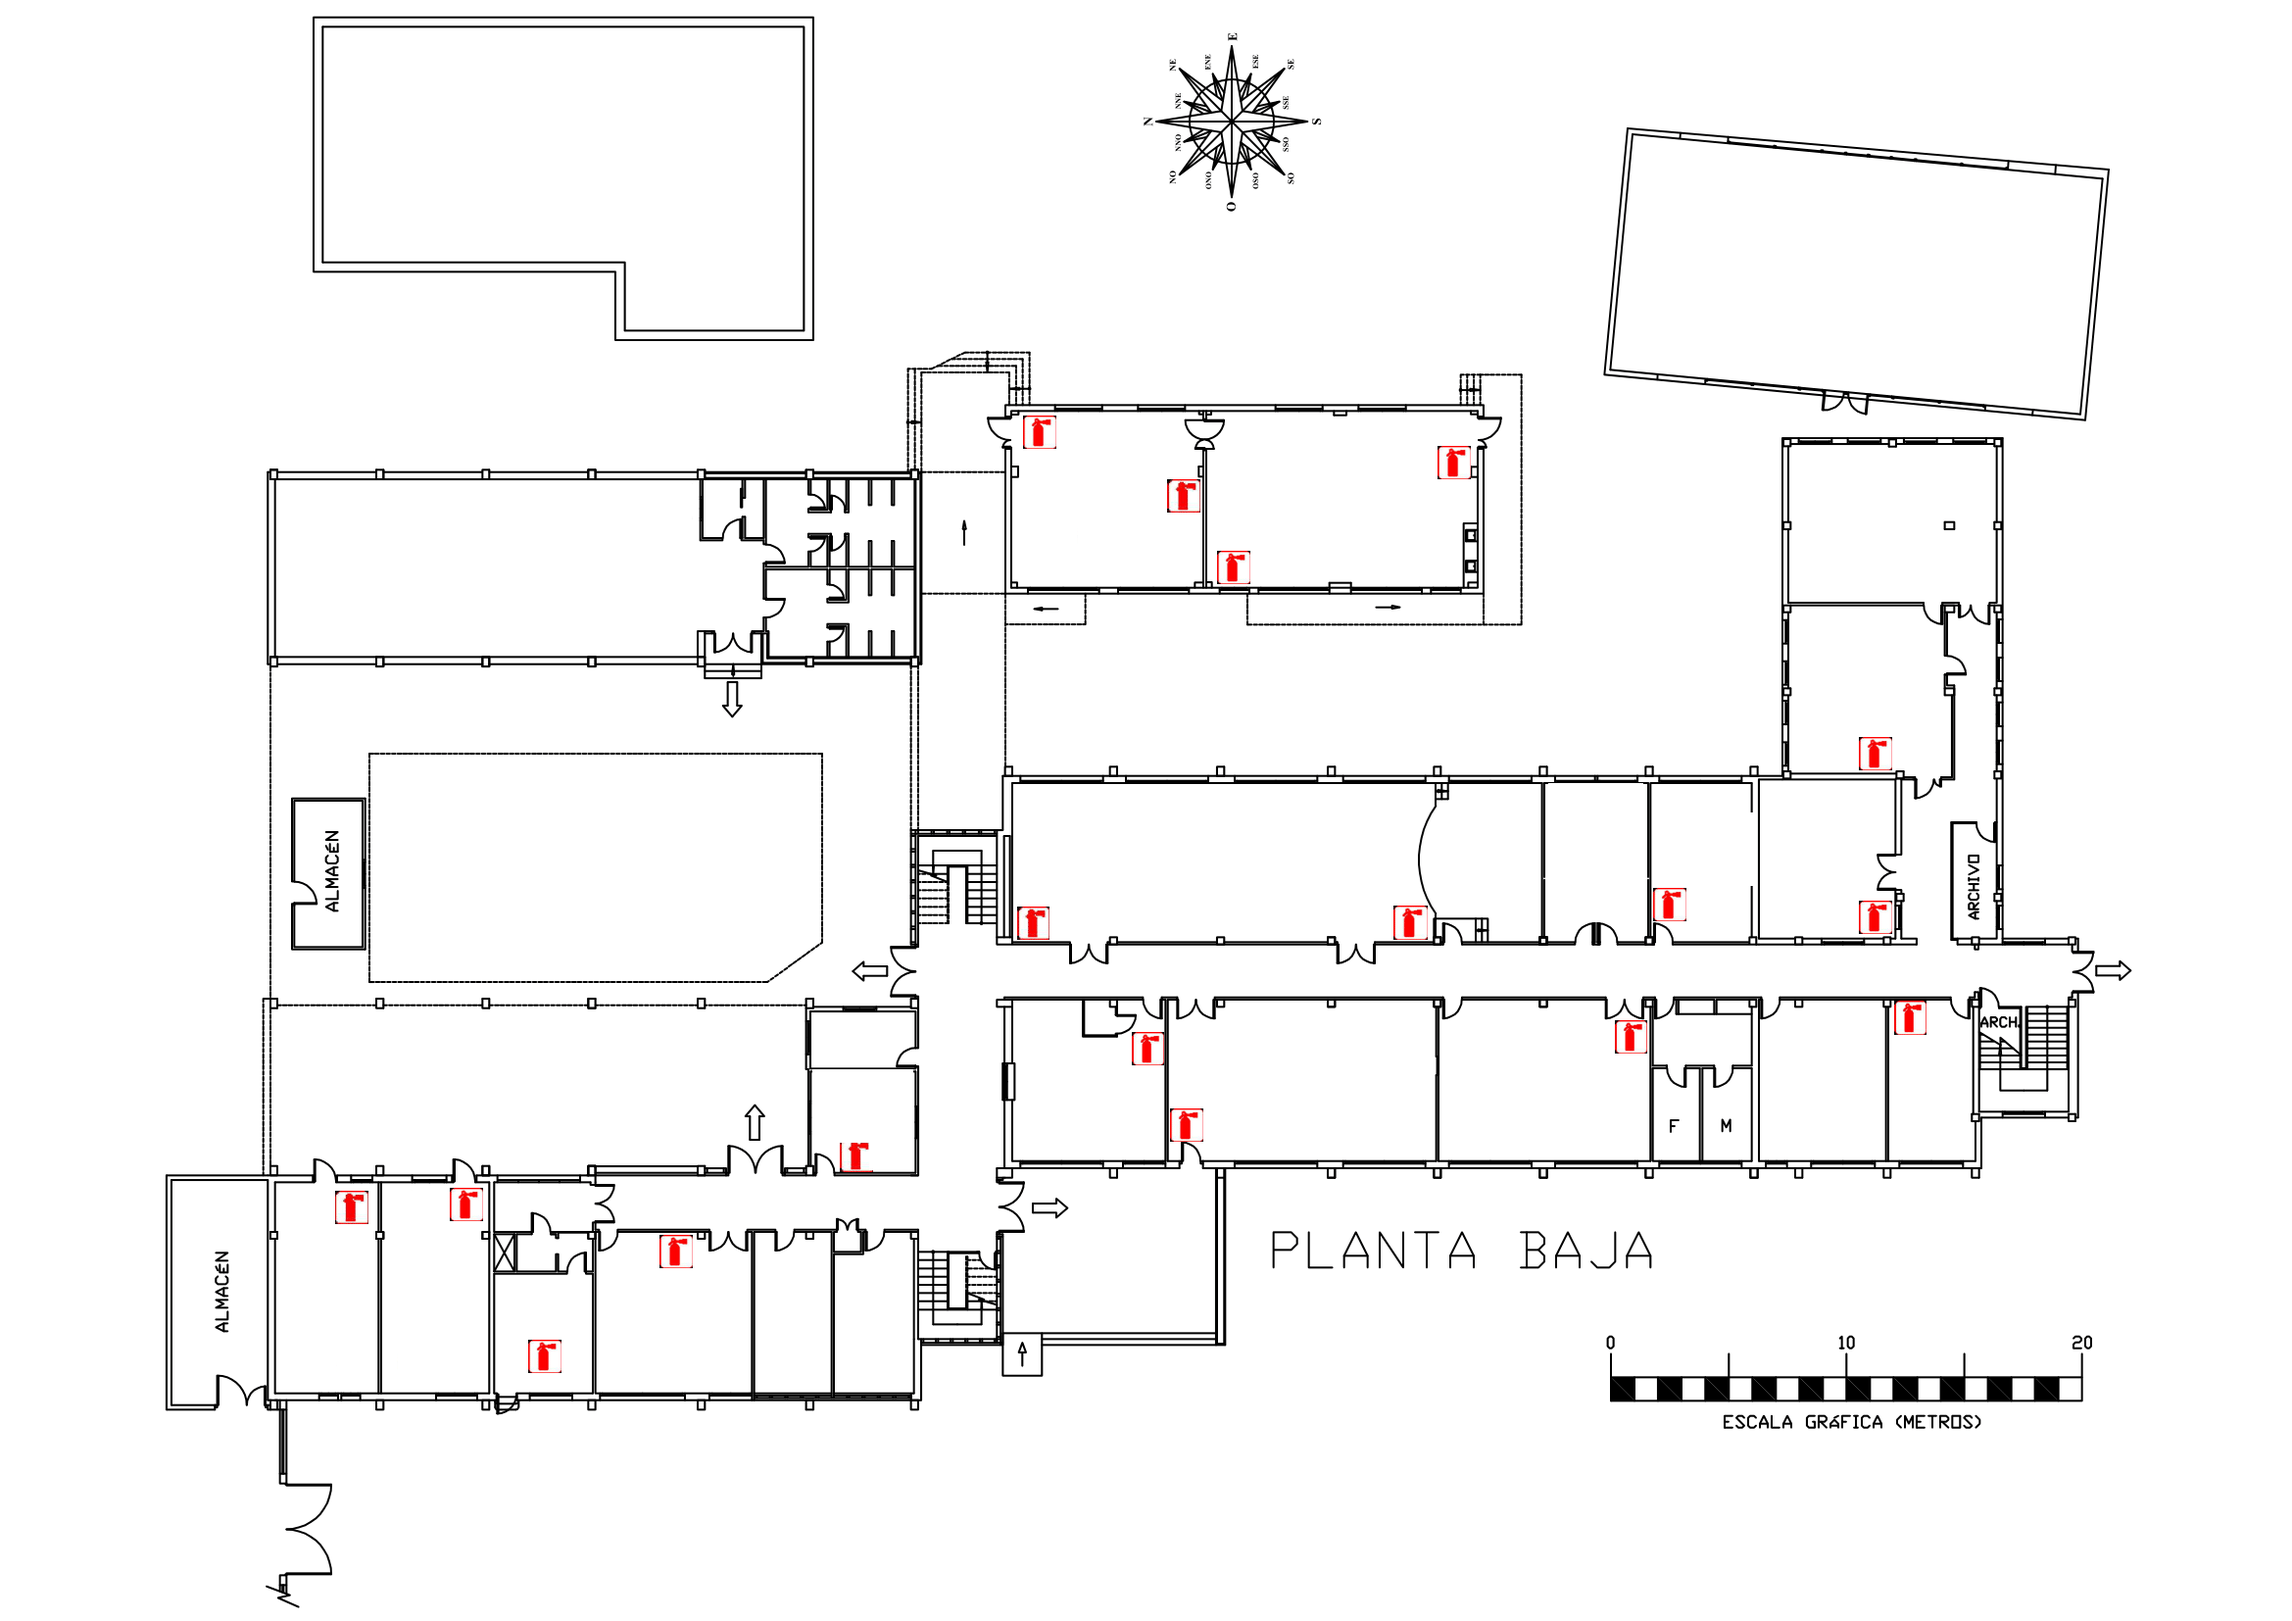
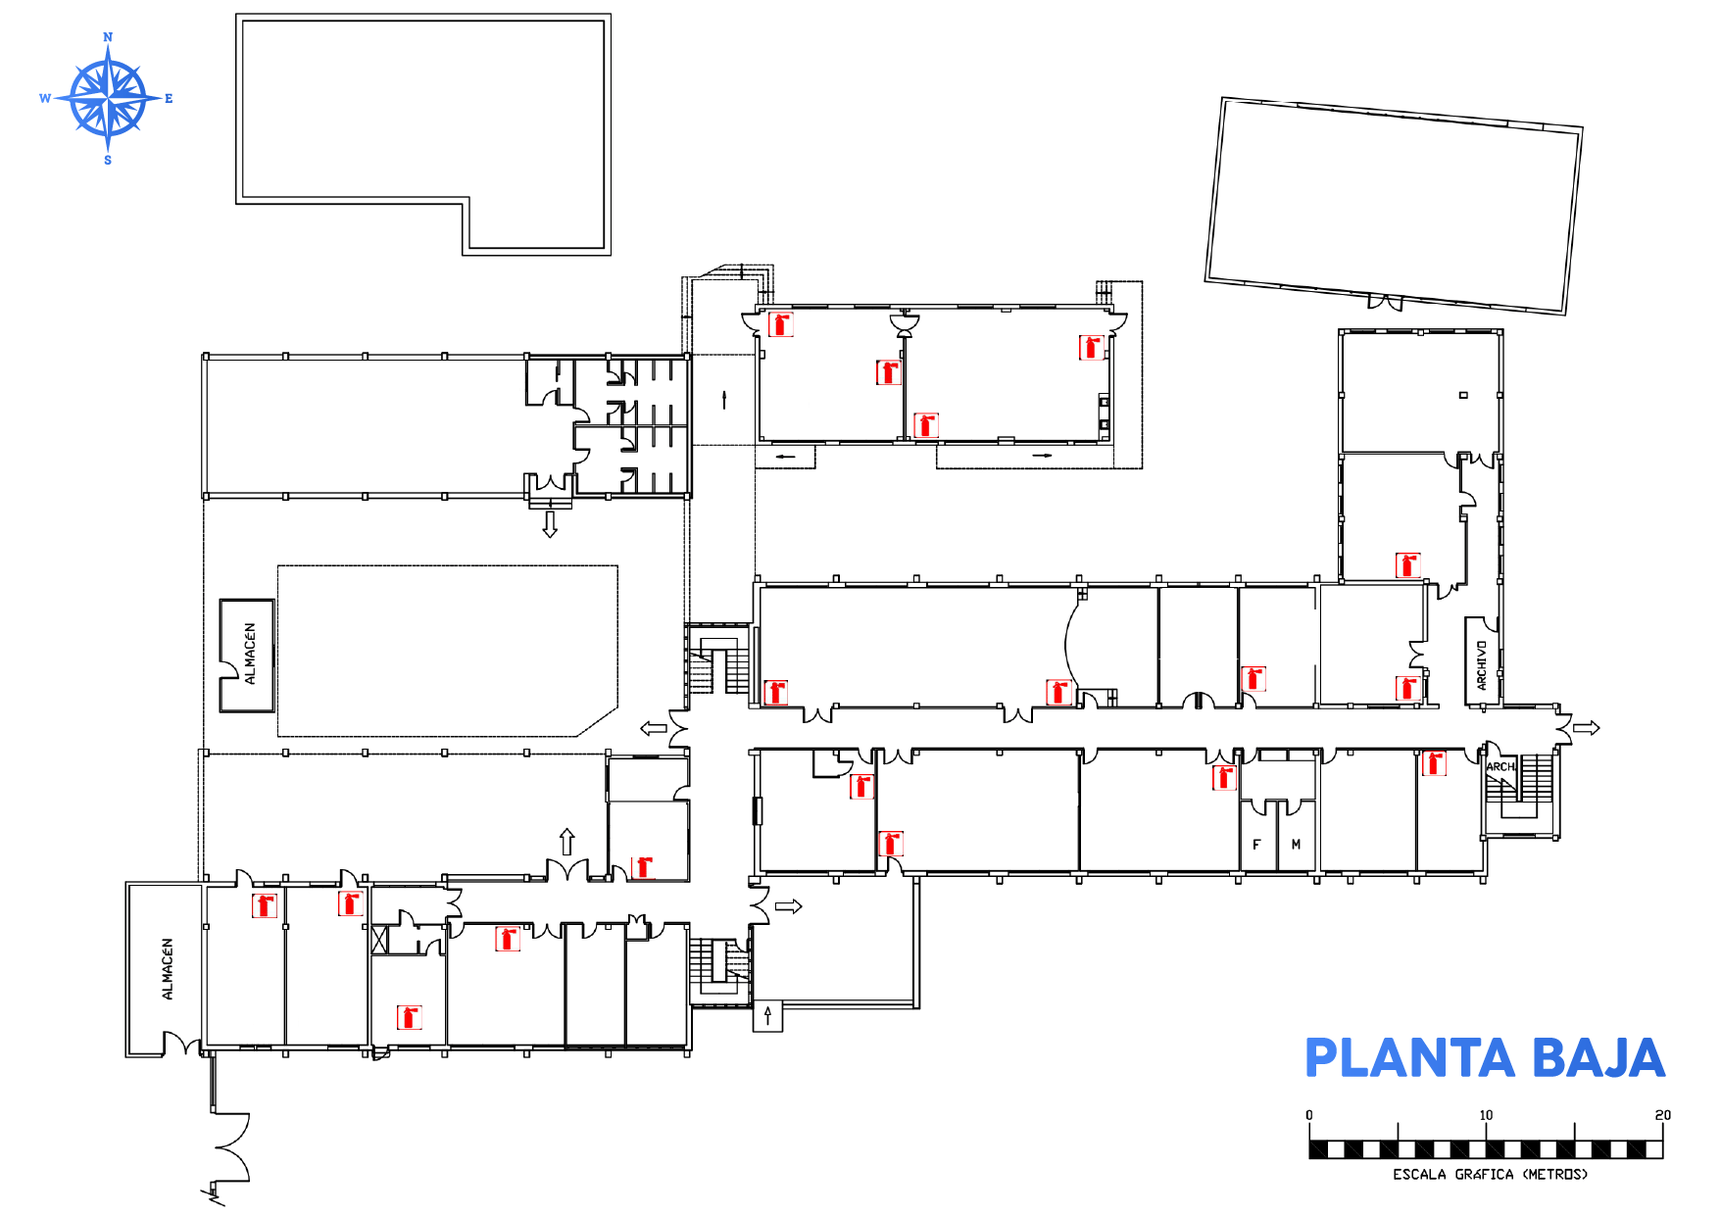
Integración de la vista de redes en los mapas.
Cambios estéticos en los colores de aulas seleccionadas, el mapa lo he modificado respetando el archivo original

diff --git a/somosjandula-main/src/views/automations/AutomationsMapView.vue b/somosjandula-main/src/views/automations/AutomationsMapView.vue
@@ -154,6 +154,9 @@
           <!-- ✅ CIRCULITO ESTADO PUERTA -->
           <span v-if="doorDotState(id)" class="door-dot" :class="doorDotState(id)"></span>
         </div>
+
+        <!--Vista del estado de las redes -->
+        <div class="vistaRedesPlantaBaja vistaRedes">
             <TarjetaMapa
             v-for="item in listaDeDatos"
             :key="item.nombreRed"
@@ -161,9 +164,9 @@
             :estado="item.estado"
             :fecha_hora="item.fecha_hora"
           />
+          </div>
   </div>
-      </div>
-
+</div>
       <!-- PLANTA PRIMERA -->
       <div v-show="planta === 'primera'" id="planta-primera" class="caja-mapa" :style="mapStyle(plantaPrimeraUrl)">
         <div
@@ -180,7 +183,21 @@
 
           <!-- ✅ CIRCULITO ESTADO PUERTA -->
           <span v-if="doorDotState(id)" class="door-dot" :class="doorDotState(id)"></span>
+
+
         </div>
+
+                <!--Vista del estado de las redes -->
+        <div class="vistaRedesPlantaPrimera vistaRedes">
+            <TarjetaMapa
+            v-for="item in listaDeDatos"
+            :key="item.nombreRed"
+            :nombreRed="item.nombreRed"
+            :estado="item.estado"
+            :fecha_hora="item.fecha_hora"
+          />
+          </div>
+
       </div>
 
       <!-- PLANTA SEGUNDA -->
@@ -200,7 +217,20 @@
           <!-- ✅ CIRCULITO ESTADO PUERTA -->
           <span v-if="doorDotState(id)" class="door-dot" :class="doorDotState(id)"></span>
         </div>
+
+                      <!--Vista del estado de las redes -->
+        <div class="vistaRedesPlantaSegunda vistaRedes">
+            <TarjetaMapa
+            v-for="item in listaDeDatos"
+            :key="item.nombreRed"
+            :nombreRed="item.nombreRed"
+            :estado="item.estado"
+            :fecha_hora="item.fecha_hora"
+          />
+          </div>
+
       </div>
+
     </div>
 </template>
 
@@ -734,8 +764,32 @@ onBeforeUnmount(() => {
 })
 </script>
 
+
+
+
+
+
 <style scoped>
 
+/*Redes*/
+.vistaRedes{
+  position: absolute;
+}
+
+.vistaRedesPlantaBaja{
+  top: 5px;
+  left: 37%;
+}
+
+.vistaRedesPlantaPrimera{
+  top: 10px;
+  left: 13%;
+}
+
+.vistaRedesPlantaSegunda{
+  top: 10px;
+  left: 13%;
+}
 
 /* Tema claro por defecto */
 #djg-main-box {
@@ -747,6 +801,9 @@ onBeforeUnmount(() => {
   --btn-bg: rgb(238, 243, 242);
   --btn-hover: rgb(253, 255, 121);
   --btn-text: #111111;
+
+  --zonaseleccionada: rgba(1, 128, 255, 0.842);
+  --zonaseleccionadafondo: rgba(21, 104, 187, 0.226);
 
   --zone-bg: rgba(255, 255, 0, 0.26);
   --zone-hover: rgba(28, 46, 146, 0.5);
@@ -913,7 +970,8 @@ button:hover {
 }
 
 .zone-selected {
-  box-shadow: 0 0 10px 3px rgba(255, 0, 0, 0.85);
+  box-shadow: 0 0 10px 7px var(--zonaseleccionada);
+  background-color: var(--zonaseleccionadafondo);
 }
 
 /* Texto dentro de cada zona */

diff --git a/somosjandula-main/src/components/redes/TarjetaMapa.vue b/somosjandula-main/src/components/redes/TarjetaMapa.vue
@@ -1,22 +1,22 @@
 <template>
-    <div class="card" >
-            <div class="contenedorred"> 
-    <div class="divestado" :class="{ 'divrojo': props.estado === 'SIN_SENAL', 'divverde': props.estado === 'CONECTADO', 'divamarillo': props.estado === 'FALLO_AUTH' }"></div>
-  
-        <h3>{{ nombreRed }}</h3>
-        <p class="estado" :class="{ 'textrojo': props.estado === 'SIN_SENAL', 'textverde': props.estado === 'CONECTADO', 'textamarillo': props.estado === 'FALLO_AUTH' }">{{ estado }}</p>
-    </div> 
-        <p class="fecha">{{ fecha_hora }}</p>
+    <div class="card">
+        <div class="contenedorred"> 
+            <div class="divestado" :class="{ 'divrojo': props.estado === 'SIN_SENAL', 'divverde': props.estado === 'CONECTADO', 'divamarillo': props.estado === 'FALLO_AUTH' }"></div>
+            <h3>{{ nombreRed }}</h3>
+        </div> 
+    <p class="fecha">{{ fecha_hora }}</p>
     </div>
 </template>
 
 <script setup>
+import { computed } from 'vue';
 
 const props = defineProps({
     nombreRed: String,
     estado: String,
     fecha_hora: String
 });
+
 
 </script>
 
@@ -28,7 +28,14 @@ p, h3{
 
 h3{
     color: rgb(26, 25, 25);
-    font-size: 1.2em;
+    font-size: 0.9em;
+    font-weight: bold;
+}
+
+.fecha{
+    color: gray;
+    font-size: 0.8em;
+    margin-right: 5px;
 }
 
 .card{
@@ -36,17 +43,19 @@ h3{
     border-radius: 20px;
     display: flex;
     flex-direction: row;
-    padding: 10px;
+    padding: 7px;
     align-items: center;
     gap: 10px;
-    width: 500px;
     box-shadow: 2px 2px 10px rgba(0, 0, 0, 0.2);
     justify-content: space-between;
 }
 
+
+
 .divestado{
-    width: 20px;
-    height: 20px;
+    margin-left: 3px;
+    width: 17px;
+    height: 17px;
     border-radius: 50%;
     background-color: gray;
     margin-right: 0.6em;
